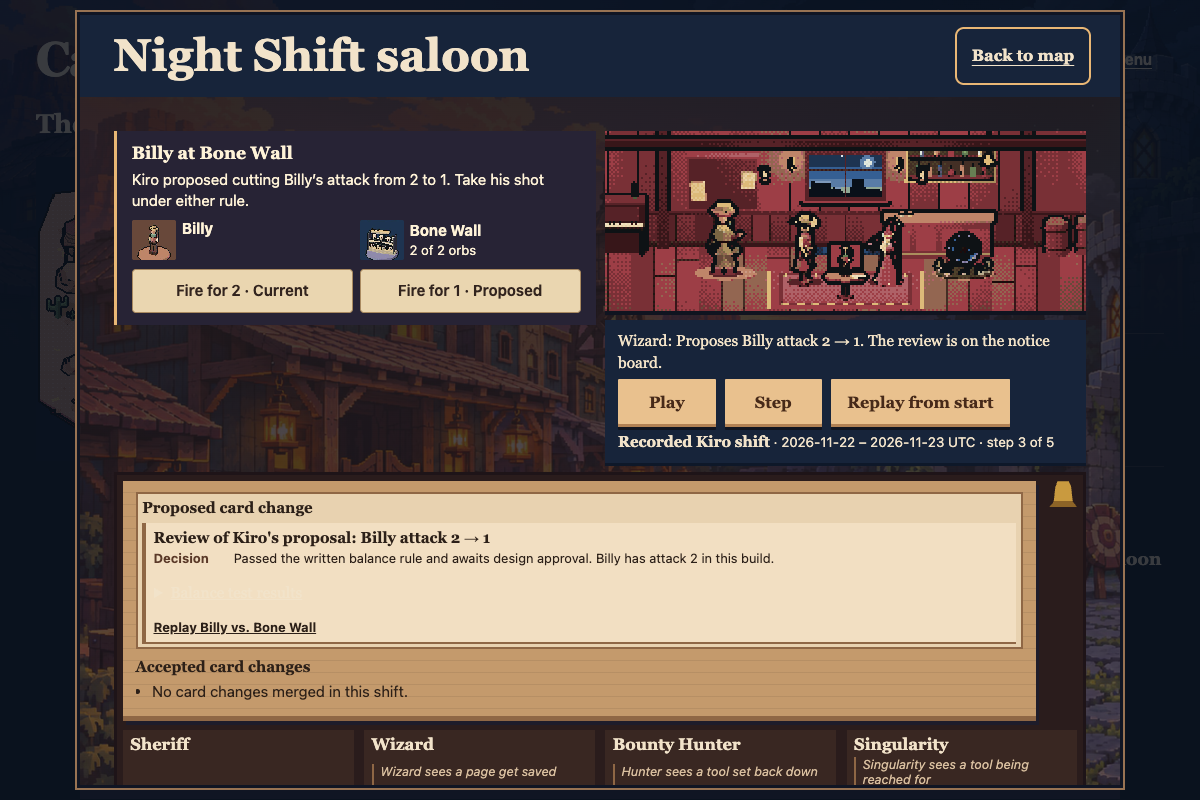
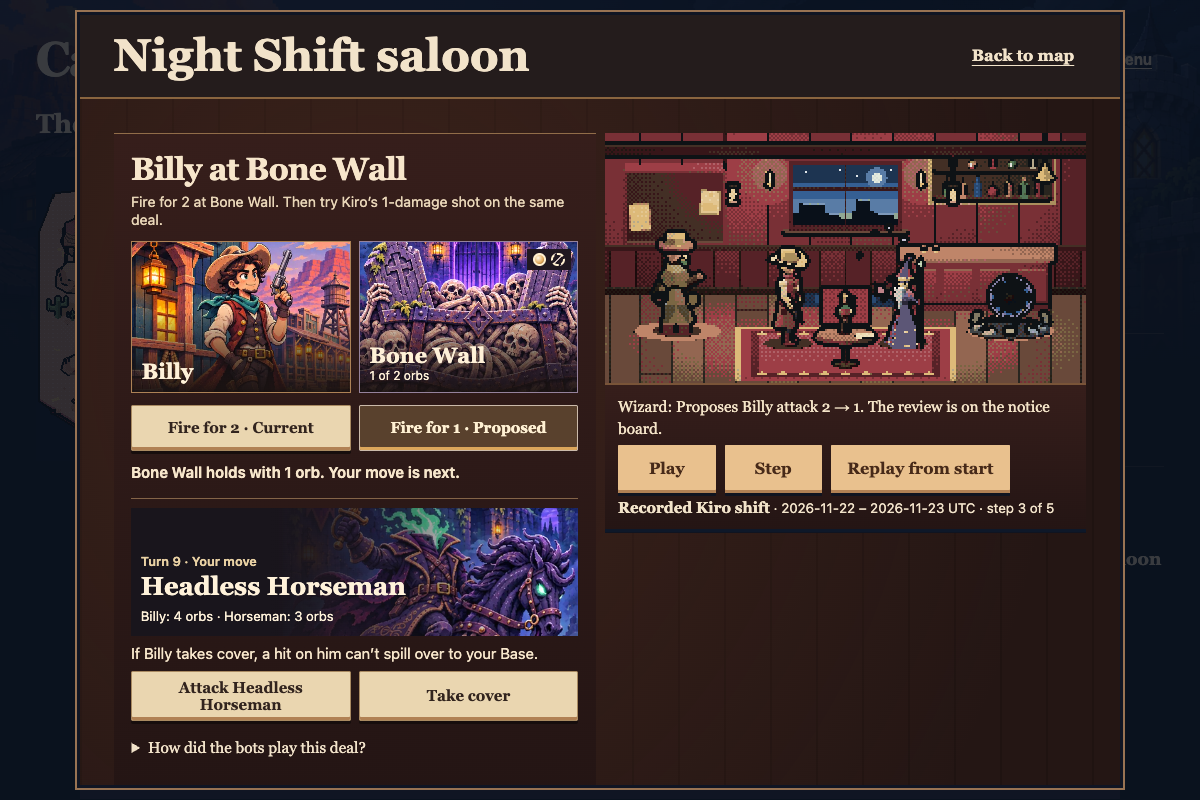
Show the turn-nine Saloon decision in the Devpost gallery

diff --git a/docs/evidence/antigravity-devpost-gallery-qa.md b/docs/evidence/antigravity-devpost-gallery-qa.md
@@ -6,10 +6,10 @@
 
 ## Captured Artifacts (`1200x800`, `3:2` PNGs)
 
[2 lines of base64/hex data omitted]
 
 1. [`01-title-and-challenge.png`](devpost-gallery/01-title-and-challenge.png) (`1,437,362` bytes)
-2. [`02-saloon-billy-courtroom.png`](devpost-gallery/02-saloon-billy-courtroom.png) (`343,640` bytes)
+2. [`02-saloon-billy-courtroom.png`](devpost-gallery/02-saloon-billy-courtroom.png) (`478,593` bytes). Codex captured the player’s turn-nine decision from `ec9b67bbd657dda604c576d43fc12fd771d00fd1` after firing for one. The manifest records this image’s source commit and staged HTML digest.
 3. [`03-outrider-3d-bone-fence.png`](devpost-gallery/03-outrider-3d-bone-fence.png) (`234,330` bytes)
 4. [`04-even-fight-tactical-duel.png`](devpost-gallery/04-even-fight-tactical-duel.png) (`822,193` bytes)
 5. [`05-boot-hill-poker-frontier-kit.png`](devpost-gallery/05-boot-hill-poker-frontier-kit.png) (`536,378` bytes)
